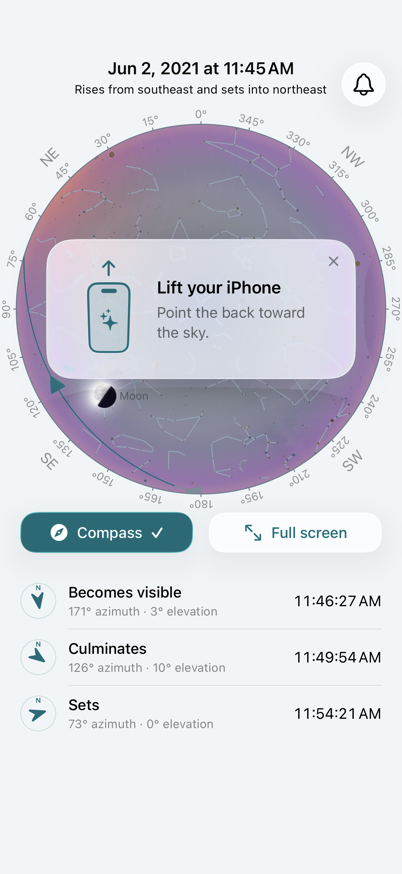
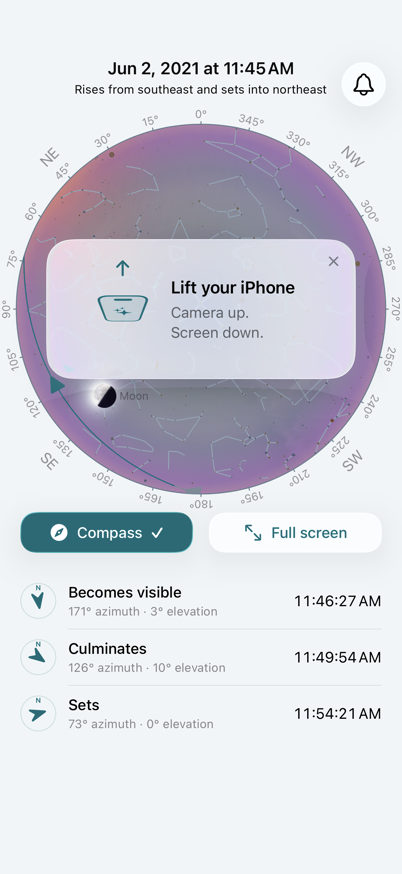
Refine lift guidance animation and unify list surface colors

Changed region(s): [[0.209, 0.278, 0.7463, 0.4016]]

diff --git a/Frameworks/SatelliteForecast/Impl/Sources/Views/PassView/DeviceOrientationGuidanceView.swift b/Frameworks/SatelliteForecast/Impl/Sources/Views/PassView/DeviceOrientationGuidanceView.swift
@@ -29,7 +29,7 @@ struct DeviceOrientationGuidanceView: View {
                     VStack(alignment: .leading, spacing: 6) {
                         Text("Lift your iPhone")
                             .font(.headline)
-                        Text("Point the back toward the sky.")
+                        Text("Camera up. Screen down.")
                             .font(.subheadline)
                             .foregroundStyle(.secondary)
                             .fixedSize(horizontal: false, vertical: true)
@@ -63,25 +63,57 @@ struct DeviceOrientationGuidanceView: View {
         }
     }
 
+    private struct LiftPose {
+        var angle: Double
+        var height: CGFloat
+        var arrowOpacity: Double
+        var saturation: Double
+
+        static let resting = LiftPose(angle: 65, height: 8, arrowOpacity: 0.4, saturation: 0.05)
+        static let overhead = LiftPose(angle: -70, height: -12, arrowOpacity: 1, saturation: 1)
+    }
+
     @ViewBuilder private var phoneDemonstration: some View {
         if reduceMotion || SnapshotEnvironment.isEnabled {
-            phone(lifted: true)
+            phone(pose: .overhead)
         } else {
-            phone(lifted: false)
-                .phaseAnimator([false, true]) { _, lifted in
-                    phone(lifted: lifted)
-                } animation: { _ in
-                    .easeInOut(duration: 1.6)
+            phone(pose: .resting)
+                .keyframeAnimator(initialValue: LiftPose.resting) { _, pose in
+                    phone(pose: pose)
+                } keyframes: { _ in
+                    // One uninterrupted lift, then an explicit timed hold.
+                    // Separate eased phases stop at upright, and a phase with
+                    // identical values can be skipped instead of holding.
+                    KeyframeTrack(\.angle) {
+                        CubicKeyframe(-70, duration: 1.7)
+                        LinearKeyframe(-70, duration: 1.0)
+                        MoveKeyframe(65)
+                    }
+                    KeyframeTrack(\.height) {
+                        CubicKeyframe(-12, duration: 1.7)
+                        LinearKeyframe(-12, duration: 1.0)
+                        MoveKeyframe(8)
+                    }
+                    KeyframeTrack(\.arrowOpacity) {
+                        LinearKeyframe(1, duration: 1.7)
+                        LinearKeyframe(1, duration: 1.0)
+                        MoveKeyframe(0.4)
+                    }
+                    KeyframeTrack(\.saturation) {
+                        LinearKeyframe(1, duration: 1.7)
+                        LinearKeyframe(1, duration: 1.0)
+                        MoveKeyframe(0.05)
+                    }
                 }
         }
     }
 
-    private func phone(lifted: Bool) -> some View {
+    private func phone(pose: LiftPose) -> some View {
         VStack(spacing: 10) {
             Image(systemName: "arrow.up")
                 .font(.body.weight(.semibold))
                 .foregroundStyle(.tint)
-                .opacity(lifted ? 1 : 0.4)
+                .opacity(pose.arrowOpacity)
             RoundedRectangle(cornerRadius: 10)
                 .fill(.tint.opacity(0.12))
                 .overlay {
@@ -96,8 +128,9 @@ struct DeviceOrientationGuidanceView: View {
                         .font(.title3).foregroundStyle(.tint)
                 }
                 .frame(width: 42, height: 72)
-                .rotation3DEffect(.degrees(lifted ? -12 : 65), axis: (x: 1, y: 0, z: 0), perspective: 0.5)
-                .offset(y: lifted ? -4 : 8)
+                .rotation3DEffect(.degrees(pose.angle), axis: (x: 1, y: 0, z: 0), perspective: 0.5)
+                .offset(y: pose.height)
         }
+        .saturation(pose.saturation)
     }
 }

diff --git a/Frameworks/SatelliteForecast/Impl/Sources/Views/AllPassesView/AllPassesOnboardingView.swift b/Frameworks/SatelliteForecast/Impl/Sources/Views/AllPassesView/AllPassesOnboardingView.swift
@@ -56,12 +56,12 @@ struct AllPassesOnboardingView: View {
                                 .padding(.trailing, 8)
                         }
                         .background(
-                            RoundedRectangle(cornerRadius: 12)
-                                .fill(Color.gray.opacity(0.2))
+                            RoundedRectangle(cornerRadius: AppTheme.cardRadius)
+                                .fill(AppTheme.surface)
                         )
                         .overlay(
-                            RoundedRectangle(cornerRadius: 12)
-                                .stroke(Color.white.opacity(0.3), lineWidth: 1)
+                            RoundedRectangle(cornerRadius: AppTheme.cardRadius)
+                                .stroke(AppTheme.border, lineWidth: 1)
                         )
                         .overlay(alignment: .bottomTrailing) {
                             Image(systemName: "hand.tap.fill")
@@ -133,6 +133,7 @@ struct AllPassesOnboardingView: View {
                 }
                 .padding(.horizontal, 16)
             }
+            .modifier(AppSurface())
             .navigationTitle(Text("Pass explained", bundle: .module, comment: "Onboarding title for explaining a satellite pass"))
             .toolbar {
                 ToolbarItem(placement: .navigationBarTrailing) {

diff --git a/Frameworks/SatelliteForecast/Impl/Sources/Views/SatelliteListView/SatelliteListView.swift b/Frameworks/SatelliteForecast/Impl/Sources/Views/SatelliteListView/SatelliteListView.swift
@@ -123,6 +123,8 @@ public struct SatelliteListView: View {
                 NavigationLink(value: SatelliteListSelectedSatellite(noradIndex: noradIndex)) {
                     SatelliteCell(info: satelliteInfo)
                 }
+                .listRowBackground(AppTheme.surface)
+                .listRowSeparatorTint(AppTheme.border)
             }
         }
         .navigationDestination(for: SatelliteListSelectedSatellite.self) { satellite in
